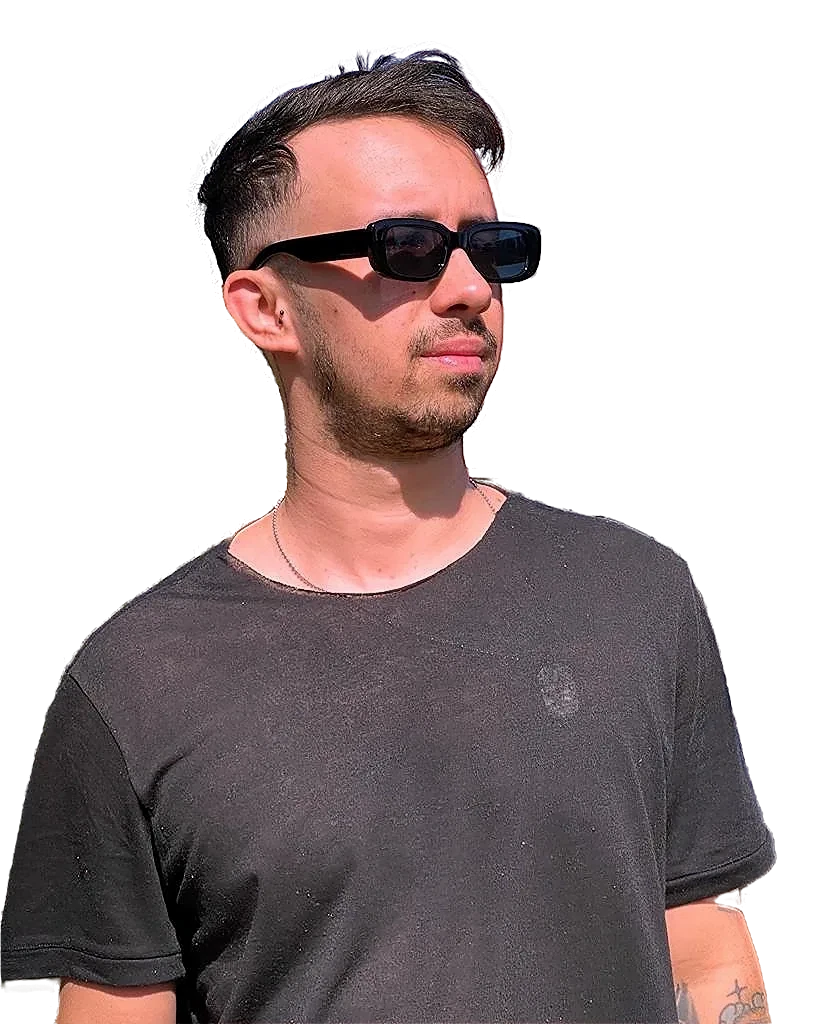
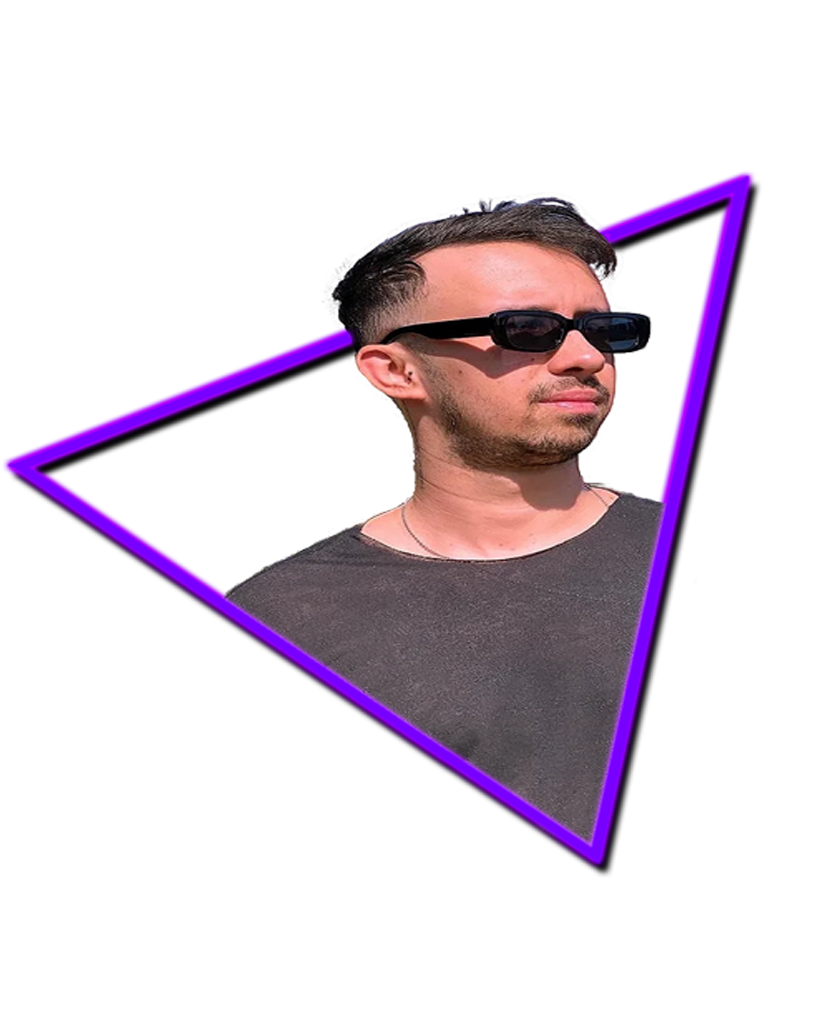
atualizando links e fotos

diff --git a/index.html b/index.html
@@ -43,10 +43,10 @@
             <p> Lorem ipsum dolor sit amet consectetur adipisicing elit. Dolorum, incidunt. Tenetur dolorem, consequuntur error quas libero consectetur iusto a dolor, nisi unde nemo nostrum labore eum quam impedit molestiae. Architecto.</p>
 
             <div class="social-media">
-                <a href="#"><i class='bx bxl-linkedin' ></i></a>
-                <a href="#"><i class='bx bxl-instagram' ></i></a>
-                <a href="#"><i class='bx bxl-youtube' ></i></a>
-                <a href="#"><i class='bx bxl-github' ></i></a>
+                <a href="https://www.linkedin.com/in/douglas-basilio-459a6a1bb/" target="_blank"><i class='bx bxl-linkedin' ></i></a>
+                <a href="https://www.instagram.com/douglaswillianb/" target="_blank"><i class='bx bxl-instagram' ></i></a>
+                <a href="https://www.youtube.com/@douglaswillian95" target="_blank"><i class='bx bxl-youtube' ></i></a>
+                <a href="https://github.com/DouglasWillianBasilio" target="_blank"><i class='bx bxl-github' ></i></a>
             </div>
 
             <a href="#" class="btn">Download CV</a>
@@ -79,7 +79,7 @@
         </div>
 
         <div class="home-img">
-             <img src="img/afoto1.png" alt=""> 
+              <img src="img/afoto1.png" alt="">  
         </div>
     </section>
 

diff --git a/style.css b/style.css
@@ -204,7 +204,7 @@ section {
     animation: professionRotate 13s ease-out infinite;
 }
 
-@keyframes professionRotate {
+  @keyframes professionRotate {
     0%, 20% {
         transform: rotate(0deg);
     }
@@ -220,7 +220,7 @@ section {
     100% {
         transform: rotate(-360deg);
     }
-}
+}  
 
 .home .profession-box .profession {
     position: absolute;
@@ -245,7 +245,7 @@ section {
 }
 
 .home .profession-box .profession:nth-child(4){
-    margin-bottom: 80px;
+    margin-bottom: -50px;
 }
 
 
@@ -273,18 +273,20 @@ section {
     top: 0;
     right: 0;
     width: 0;
-    height: 0;
+     height: 0;
     border-top: 384px solid var(--main-color);
     border-right: 384px solid var(--main-color);
     border-bottom: 384px solid var(--main-color);
     border-left: 384px solid transparent;
-}
+} 
 
 .home-img img {
     position: absolute;
     bottom: 0;
     right: 0;
-    width: 40%;
+    width: 30%;
+    right: -5%;
+    top: -20%;
     pointer-events: none;
 }
 
@@ -552,6 +554,9 @@ span {
 
     .home .profession-container .overlay {
         right: -9rem;
+    }
+    .home-img img {
+        display: none;
     }
 }
 
